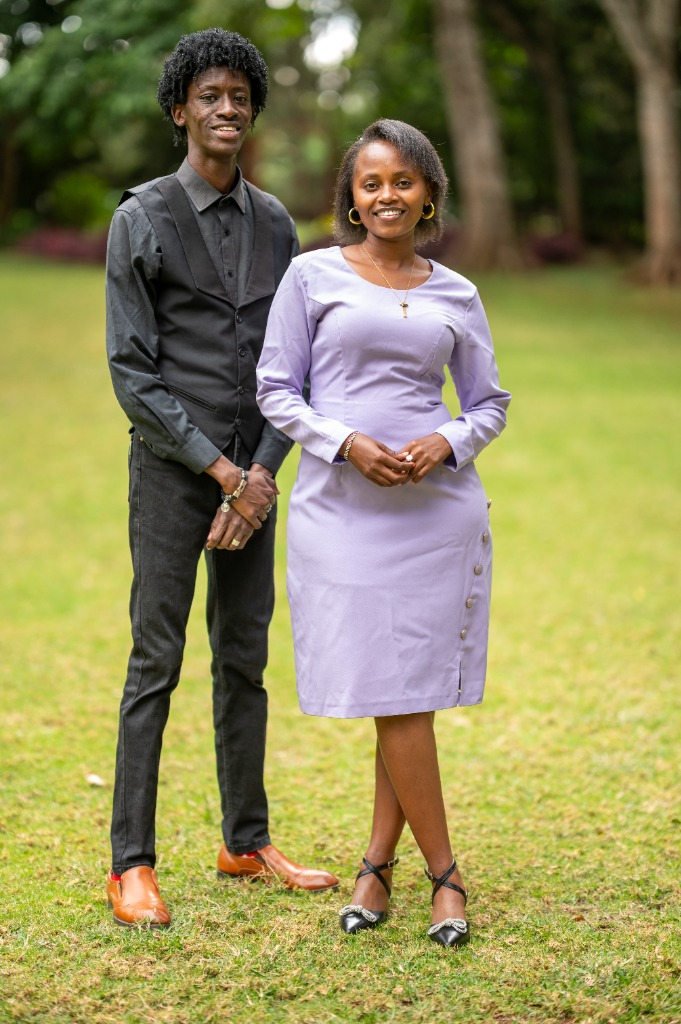
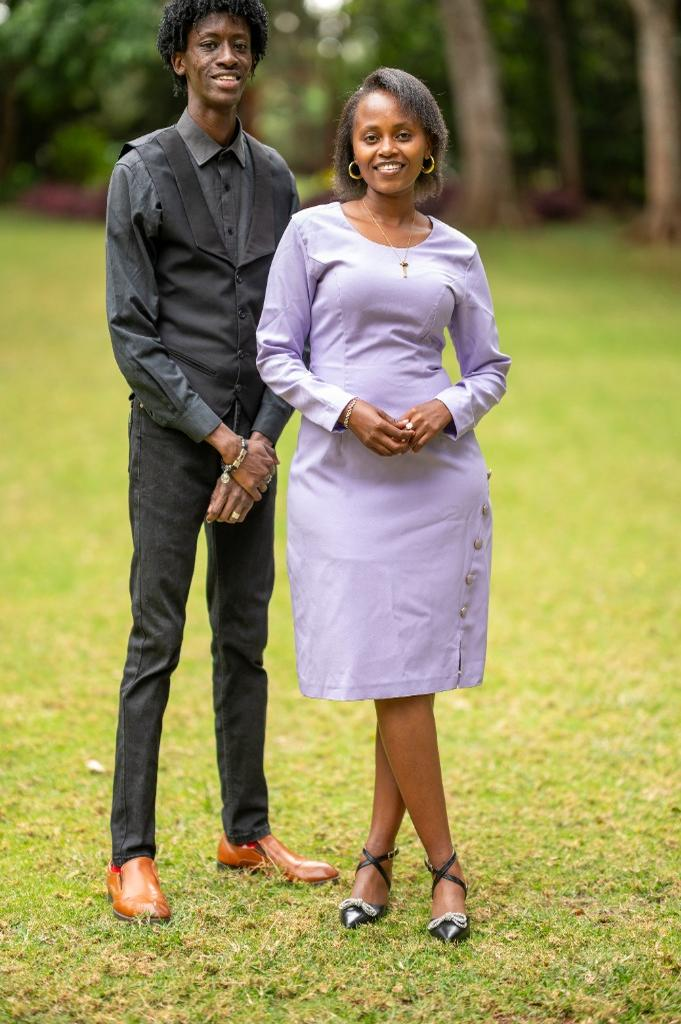
updates

diff --git a/web/invite.html b/web/invite.html
@@ -182,7 +182,7 @@ body.locked{overflow:hidden}
   overflow:hidden;
   height:100%;
   display:flex;
-  align-items:center;
+  align-items:flex-end;
   justify-content:center;
   background:#26201D;
 }
@@ -190,33 +190,37 @@ body.locked{overflow:hidden}
   width:100%;
   height:100%;
   object-fit:cover;
-  object-position:center 15%;
+  object-position:center 6%;
   display:block;
   transition:transform .7s cubic-bezier(.2,.8,.2,1);
 }
 .love-col:hover .love-img{
   transform:scale(1.06);
 }
-.love-col-1 .love-img{ object-position:center 12%; }
-.love-col-2 .love-img{ object-position:center 16%; }
-.love-col-3 .love-img{ object-position:center 16%; }
-.love-col-4 .love-img{ object-position:center 16%; }
+.love-col-1 .love-img{ object-position:center 6%; }
+.love-col-2 .love-img{ object-position:48% 6%; }
+.love-col-3 .love-img{ object-position:center 6%; }
+.love-col-4 .love-img{ object-position:center 6%; }
 
 .love-overlay{
   position:absolute;
   inset:0;
-  background:linear-gradient(180deg, rgba(20,16,14,.24) 0%, rgba(20,16,14,.06) 45%, rgba(20,16,14,.34) 100%);
+  background:linear-gradient(180deg, rgba(20,16,14,.04) 0%, rgba(20,16,14,.02) 40%, rgba(20,16,14,.42) 75%, rgba(20,16,14,.68) 100%);
   pointer-events:none;
+  z-index:2;
 }
 .love-letter{
   position:absolute;
-  z-index:2;
+  bottom:clamp(18px, 3.8vw, 32px);
+  left:50%;
+  transform:translateX(-50%);
+  z-index:4;
   font-family:'Cormorant Garamond', Georgia, serif;
   font-size:clamp(44px, 7.5vw, 76px);
   font-weight:700;
   color:#FFFFFF;
   line-height:1;
-  text-shadow:0 3px 14px rgba(0,0,0,.55), 0 1px 2px rgba(0,0,0,.6);
+  text-shadow:0 3px 16px rgba(0,0,0,.75), 0 1px 3px rgba(0,0,0,.85);
   pointer-events:none;
   letter-spacing:.02em;
   user-select:none;
@@ -227,8 +231,8 @@ body.locked{overflow:hidden}
   left:0;
   right:0;
   bottom:0;
-  height:40px;
-  background:linear-gradient(180deg,transparent,rgba(255,255,255,.9) 70%,#FFFFFF 100%);
+  height:24px;
+  background:linear-gradient(180deg,transparent,rgba(255,255,255,.85) 75%,#FFFFFF 100%);
   pointer-events:none;
   z-index:3;
 }
